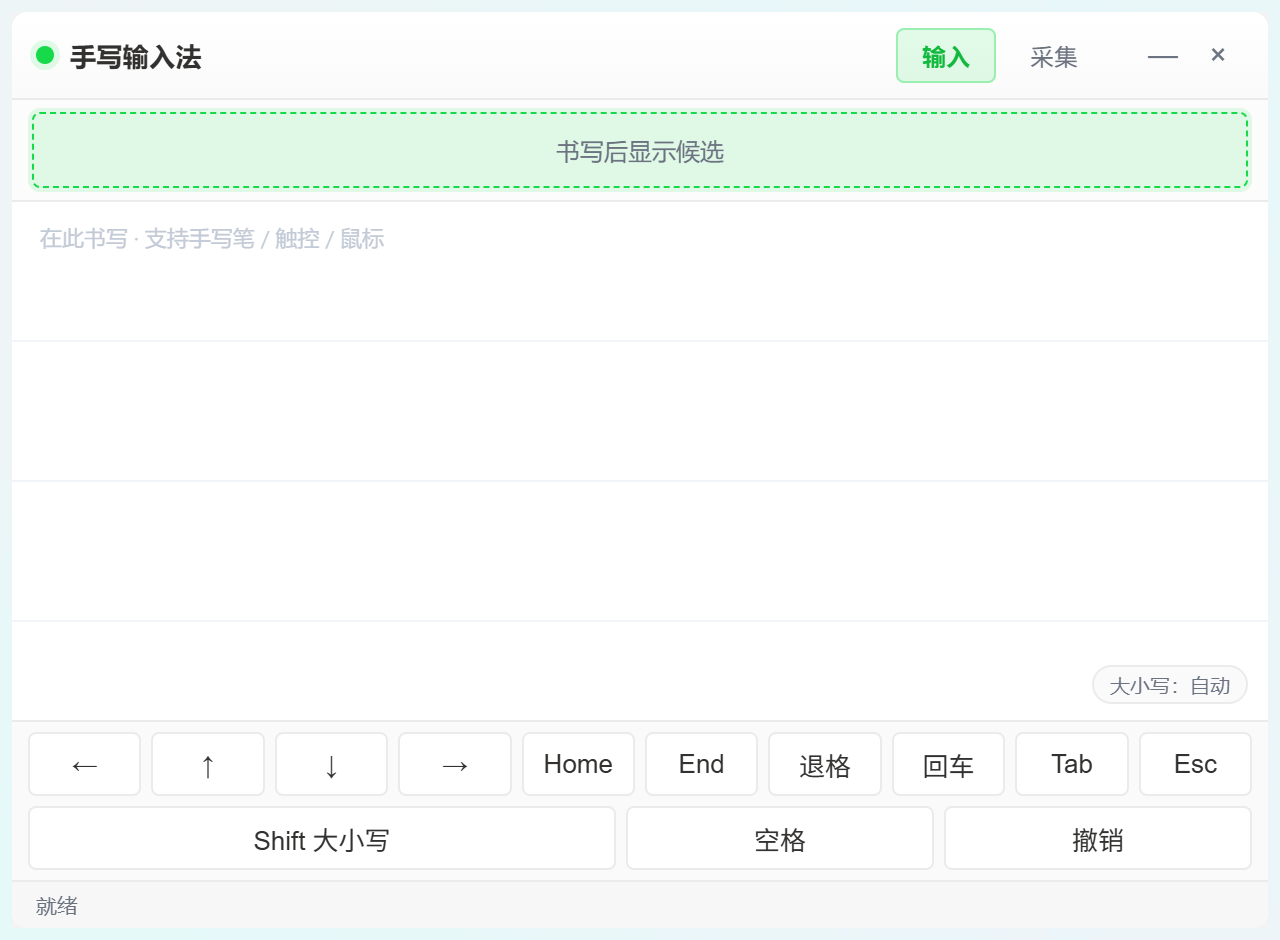
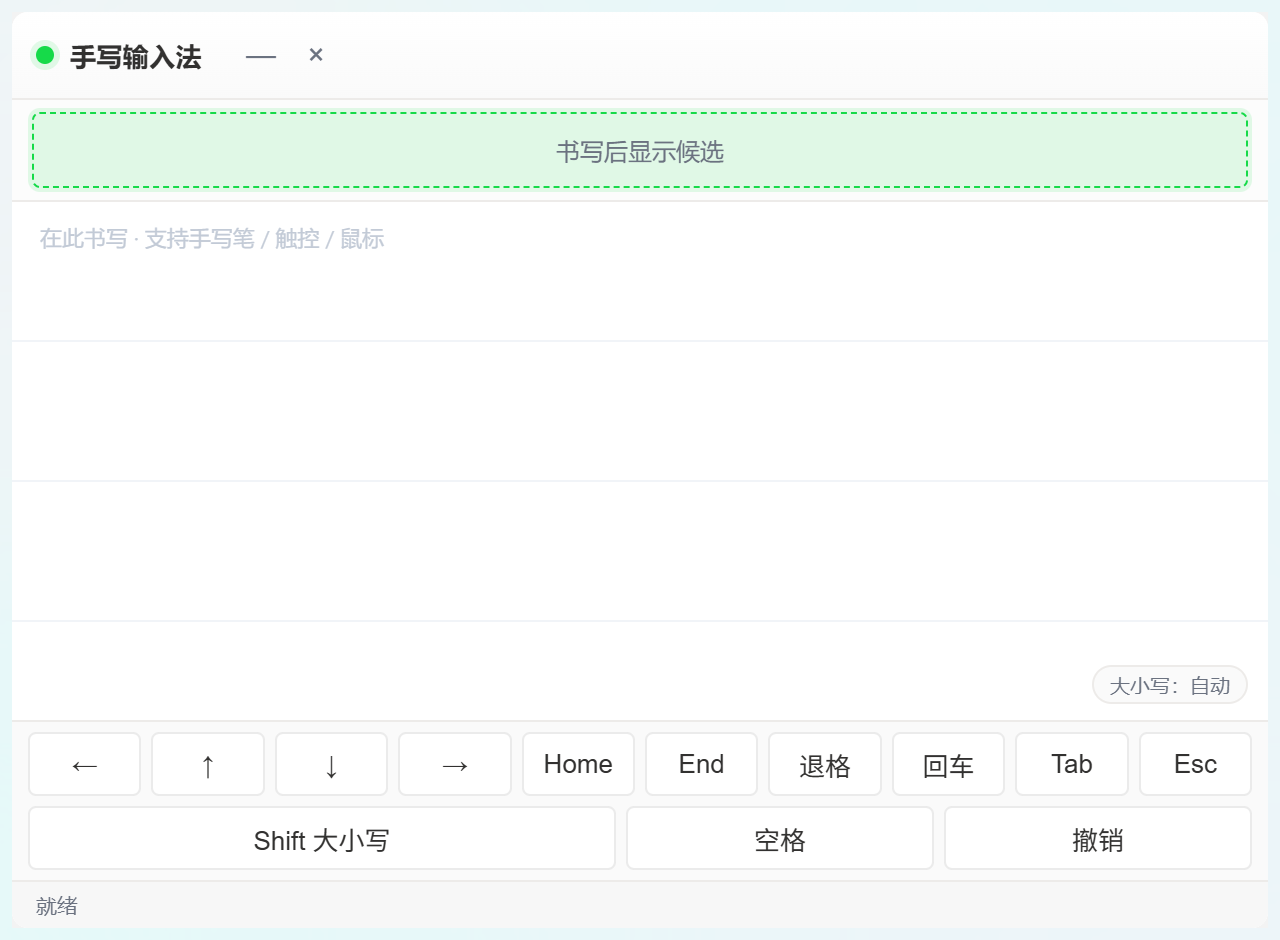
生产界面去掉输入/采集入口、精确匹配面板窗口（不再误伤资源管理器）、移除浏览器回落、分发包路径兼容

Changed region(s): [[0.6875, 0.0309, 0.7812, 0.0926], [0.8125, 0.0309, 0.8438, 0.0926]]

diff --git a/app/static/app.js b/app/static/app.js
@@ -27,7 +27,14 @@
   const splitSel = $("splitSel");
   const quotaEl = $("quota");
 
-  const DEBUG = new URLSearchParams(location.search).has("debug");
+  const QS = new URLSearchParams(location.search);
+  const DEBUG = QS.has("debug");
+  const SHELL = QS.has("shell");        // 由原生外壳启动（有系统钩子）
+  const DEV = QS.has("dev") || DEBUG;   // 开发模式：显示采集入口
+
+  // 生产环境不出现"输入 / 采集"与窗口按钮
+  document.body.classList.toggle("shell", SHELL);
+  document.body.classList.toggle("dev", DEV);
 
   const state = {
     mode: "input",
@@ -413,8 +420,10 @@
       setStatus("窗口控制不可用：服务未以桌面外壳启动", true);
     }
   }
-  $("minBtn").onclick = () => windowAction("hide");
-  $("closeBtn").onclick = () => windowAction("close");
+  const minBtn = $("minBtn");
+  const closeBtn = $("closeBtn");
+  if (minBtn) minBtn.onclick = () => windowAction("hide");
+  if (closeBtn) closeBtn.onclick = () => windowAction("close");
 
   /* -------------------------------------------------------------- 系统按键 */
   async function sendKey(key) {
@@ -497,6 +506,9 @@
   resize();
   loadState().then(() => {
     const q = new URLSearchParams(location.search);
-    if (q.get("mode") === "collect") document.querySelector('.tab[data-mode="collect"]').click();
+    if (DEV && q.get("mode") === "collect") {
+      const t2 = document.querySelector('.tab[data-mode="collect"]');
+      if (t2) t2.click();
+    }
   });
 })();

diff --git a/app/static/style.css b/app/static/style.css
@@ -216,3 +216,8 @@ body {
 
 /* 表头里的按钮不能拖动，否则点不到 */
 .ime-head button, .ime-head .tab, .ime-head .winctl { -webkit-app-region: no-drag; app-region: no-drag; }
+
+/* 生产/开发模式的可见性控制 */
+body:not(.dev) .dev-only { display: none !important; }
+/* 网页模式下没有系统钩子，窗口按钮不该出现 */
+body:not(.shell) .winctl { display: none !important; }

diff --git a/app/static/index.html b/app/static/index.html
@@ -16,7 +16,8 @@
       <span class="brand-dot"></span>
       <span>手写输入法</span>
     </div>
-    <div class="tabs">
+    <!-- 开发模式下才出现的模式切换（生产环境不该让用户看到"采集"） -->
+    <div class="tabs dev-only">
       <button class="tab active" data-mode="input">输入</button>
       <button class="tab" data-mode="collect">采集</button>
     </div>

diff --git a/app/desktop.py b/app/desktop.py
@@ -4,7 +4,7 @@
 启动顺序
 --------
 1. 起本地 HTTP 服务（复用 app/server.py，端口 8765）
-2. 用 Edge 的 app 模式开一个 Chromium 窗口（无地址栏、无标签页）
+2. 启动自带的原生外壳（C# + WebView2），窗口无边框、圆角、Mica、不进任务栏
 3. 去掉系统标题栏 + 加圆角 + 置顶  -> 看起来是一个现代浮层
 4. 注册全局热键 Ctrl+Alt+H（显示/隐藏面板）
 5. 监听前台窗口：焦点进入可编辑控件时自动弹出手写板
@@ -38,11 +38,9 @@ if ROOT not in sys.path:
 import win32_helper as pw  # noqa: E402
 import server as srv  # noqa: E402
 
-EDGE_CANDIDATES = [
-    r"C:\Program Files (x86)\Microsoft\Edge\Application\msedge.exe",
-    r"C:\Program Files\Microsoft\Edge\Application\msedge.exe",
-]
+# 面板逻辑尺寸（DIP）与窗口标题；标题必须精确匹配，否则会命中同名的资源管理器窗口
 PANEL_W, PANEL_H = 640, 470
+PANEL_TITLE = "TonhTze AI · Handwriting IME"
 PORT = int(os.environ.get("IME_PORT", "8765"))
 RUNTIME = os.path.join(ROOT, ".runtime")
 
@@ -77,17 +75,24 @@ def _wait_window(timeout: float = 20.0) -> int:
 
 
 def _find_panel() -> int:
-    """按标题找我们的面板窗口（避免抓到用户已有的 Edge 窗口）。"""
+    """精确找到我们的面板窗口。
+
+    不能用"标题以 TonhTze 开头"这种模糊匹配 —— 用户打开的
+    `TonhTzeIME` 文件夹（资源管理器窗口）会被误判成面板，被改样式、被隐藏，
+    表现得就像"启动程序把文件资源管理器弄坏了"。
+    """
     found: list[int] = []
     WNDENUMPROC = ctypes.WINFUNCTYPE(wt.BOOL, wt.HWND, wt.LPARAM)
 
     def cb(hwnd, _):
         if not pw.user32.IsWindowVisible(hwnd):
             return True
-        if pw.window_title(hwnd).startswith("TonhTze"):
-            found.append(int(hwnd))
-            return False
-        return True
+        if pw.window_title(hwnd) != PANEL_TITLE:
+            return True
+        if not pw.window_class(hwnd).startswith("WindowsForms10"):
+            return True
+        found.append(int(hwnd))
+        return False
 
     pw.user32.EnumWindows(WNDENUMPROC(cb), 0)
     return found[0] if found else 0
@@ -114,78 +119,37 @@ def _place_panel(hwnd: int) -> None:
 
 
 def launch_panel() -> None:
-    edge = _edge_path()
     url = f"http://127.0.0.1:{PORT}"
 
-    # 优先用自带的原生外壳（WinForms + WebView2 + Mica）
-    native = os.path.join(ROOT, "dist", "TonhTzeIME", "native", "ime_shell.exe")
-    if os.path.exists(native):
-        state["proc"] = subprocess.Popen([native, url])
-        log(f"已启动原生外壳 pid={state['proc'].pid}")
-        hwnd = _wait_window()
-        if hwnd:
-            state["panel"] = hwnd
-            pw.register_own_pid(pw._pid_of(hwnd))
-            pw.strip_frame(hwnd, topmost=True)
-            pw.set_window_icon(hwnd, os.path.join(HERE, "static", "icon.ico"))
-            _place_panel(hwnd)
-            pw.hide_window(hwnd)
-            state["visible"] = False
-            log(f"原生面板 hwnd={hwnd} 已就绪（Mica + 圆角 + 置顶），托盘常驻、按焦点弹出")
-            return
-        log("原生外壳未出现窗口，退回 Edge")
+    # 只用自带的原生外壳。绝不回落到浏览器 —— 那样会变成"Edge 套壳"，
+    # 一个独立窗口、不进托盘、还会干扰资源管理器。
+    # 两种布局都要支持：
+    #   仓库里     ROOT/dist/TonhTzeIME/native/ime_shell.exe
+    #   分发目录里 ROOT/native/ime_shell.exe
+    candidates = [
+        os.path.join(ROOT, "native", "ime_shell.exe"),
+        os.path.join(ROOT, "dist", "TonhTzeIME", "native", "ime_shell.exe"),
+    ]
+    native = next((c for c in candidates if os.path.exists(c)), candidates[-1])
+    if not os.path.exists(native):
+        log(f"[x] 找不到原生外壳: {native}（先运行 python tools/build_shell_cs.py）")
+        raise SystemExit(2)
 
-    if edge:
-        profile = os.path.join(RUNTIME, "edge-profile")
-        os.makedirs(profile, exist_ok=True)
-        args = [
-            edge,
-            f"--app={url}",
-            f"--window-size={PANEL_W},{PANEL_H}",
-            f"--user-data-dir={profile}",
-            "--no-first-run",
-            "--no-default-browser-check",
-            "--disable-features=Translate,msEdgeTranslate",
-            "--disable-session-crashed-bubble",
-            "--hide-crash-restore-bubble",
-        ]
-        state["proc"] = subprocess.Popen(args)
-        log(f"已启动 Edge app 模式 pid={state['proc'].pid}")
-    else:
-        import webbrowser
-
-        webbrowser.open(url)
-        log("未找到 Edge，退回默认浏览器（无边框样式不可用）")
-
+    state["proc"] = subprocess.Popen([native, url + "?shell=1"])
+    log(f"已启动原生外壳 pid={state['proc'].pid}")
     hwnd = _wait_window()
-    if hwnd:
-        state["panel"] = hwnd
-        pw.register_own_pid(pw._pid_of(hwnd))
-        pw.strip_frame(hwnd, topmost=True)
-        pw.set_window_icon(hwnd, os.path.join(HERE, "static", "icon.ico"))
-        _place_panel(hwnd)
-        log(f"面板窗口 hwnd={hwnd} 已美化（无边框+圆角+置顶）")
+    if not hwnd:
+        log("[x] 原生外壳没有出现窗口，退出（不回落到浏览器）")
+        os._exit(3)
 
-        def _reapply():
-            # Chromium 启动过程中会替换窗口句柄，这里每次都重新定位一遍，
-            # 确保美化和定位作用在"最终那个"窗口上。
-            for _ in range(5):
-                time.sleep(1.0)
-                try:
-                    h = _find_panel() or state["panel"]
-                    if not h:
-                        continue
-                    state["panel"] = h
-                    pw.register_own_pid(pw._pid_of(h))
-                    pw.strip_frame(h, topmost=True)
-                    pw.set_window_icon(h, os.path.join(HERE, "static", "icon.ico"))
-                    _place_panel(h)
-                except Exception:
-                    pass
-
-        threading.Thread(target=_reapply, daemon=True).start()
-    else:
-        log("未等到面板窗口，样式化跳过")
+    state["panel"] = hwnd
+    pw.register_own_pid(pw._pid_of(hwnd))
+    pw.strip_frame(hwnd, topmost=True)
+    pw.set_window_icon(hwnd, os.path.join(HERE, "static", "icon.ico"))
+    _place_panel(hwnd)
+    pw.hide_window(hwnd)
+    state["visible"] = False
+    log(f"原生面板 hwnd={hwnd} 已就绪（Mica + 圆角 + 置顶），托盘常驻、按焦点弹出")
 
 
 # ---------------------------------------------------------------- 注入

diff --git a/tools/build_dist.py b/tools/build_dist.py
@@ -68,6 +68,9 @@ def main() -> int:
     if not os.path.exists(exe):
         print("[!] 还没有原生外壳：先运行 python tools/build_shell_cs.py")
 
+    # 运行期缓存（WebView2 profile）不随包分发，体积能省几十 MB
+    shutil.rmtree(os.path.join(DIST, ".runtime"), ignore_errors=True)
+
     total = 0
     for base, _dirs, files in os.walk(DIST):
         for f in files:

diff --git a/README.md b/README.md
@@ -25,7 +25,7 @@ The panel is rendered by Chromium (HTML/CSS inside WebView2), so it can be resty
 | **Candidates** | Top-6 character candidates (click to replace), word candidates from the conlang dictionary (only `dh` shown) |
 | **Insertion** | Clipboard + `Ctrl+V` injection, far more reliable across applications than synthetic keystrokes |
 | **Keys** | Arrows, Home/End, Backspace, Enter, Tab, Esc, Space, Shift, undo |
-| **Collection mode** | Built-in labelled data collection; the panel doubles as a dataset recorder |
+| **Collection mode** | Labelled data collection for development (`?dev=1`); hidden in the shipped panel |
 | **Personalisation** | Fine-tuning on your own handwriting lifts accuracy from 70.5 % to 95.5 % on held-out samples |
 
 ---
@@ -288,7 +288,7 @@ Dorn Hub
 | **候选** | Top-6 候选字（点一下替换）；人造语词表候选（只显示 `dh`） |
 | **插入** | 剪贴板 + `Ctrl+V` 注入，跨程序比模拟按键可靠得多 |
 | **按键** | 方向键、Home/End、退格、回车、Tab、Esc、空格、Shift、撤销 |
-| **采集模式** | 内置带标注的数据采集，面板同时是数据集录制器 |
+| **采集模式** | 开发用的带标注数据采集（`?dev=1` 才出现），生产界面不显示 |
 | **个性化** | 用你自己的笔迹微调，留出样本上从 70.5% 提升到 95.5% |
 
 ---
